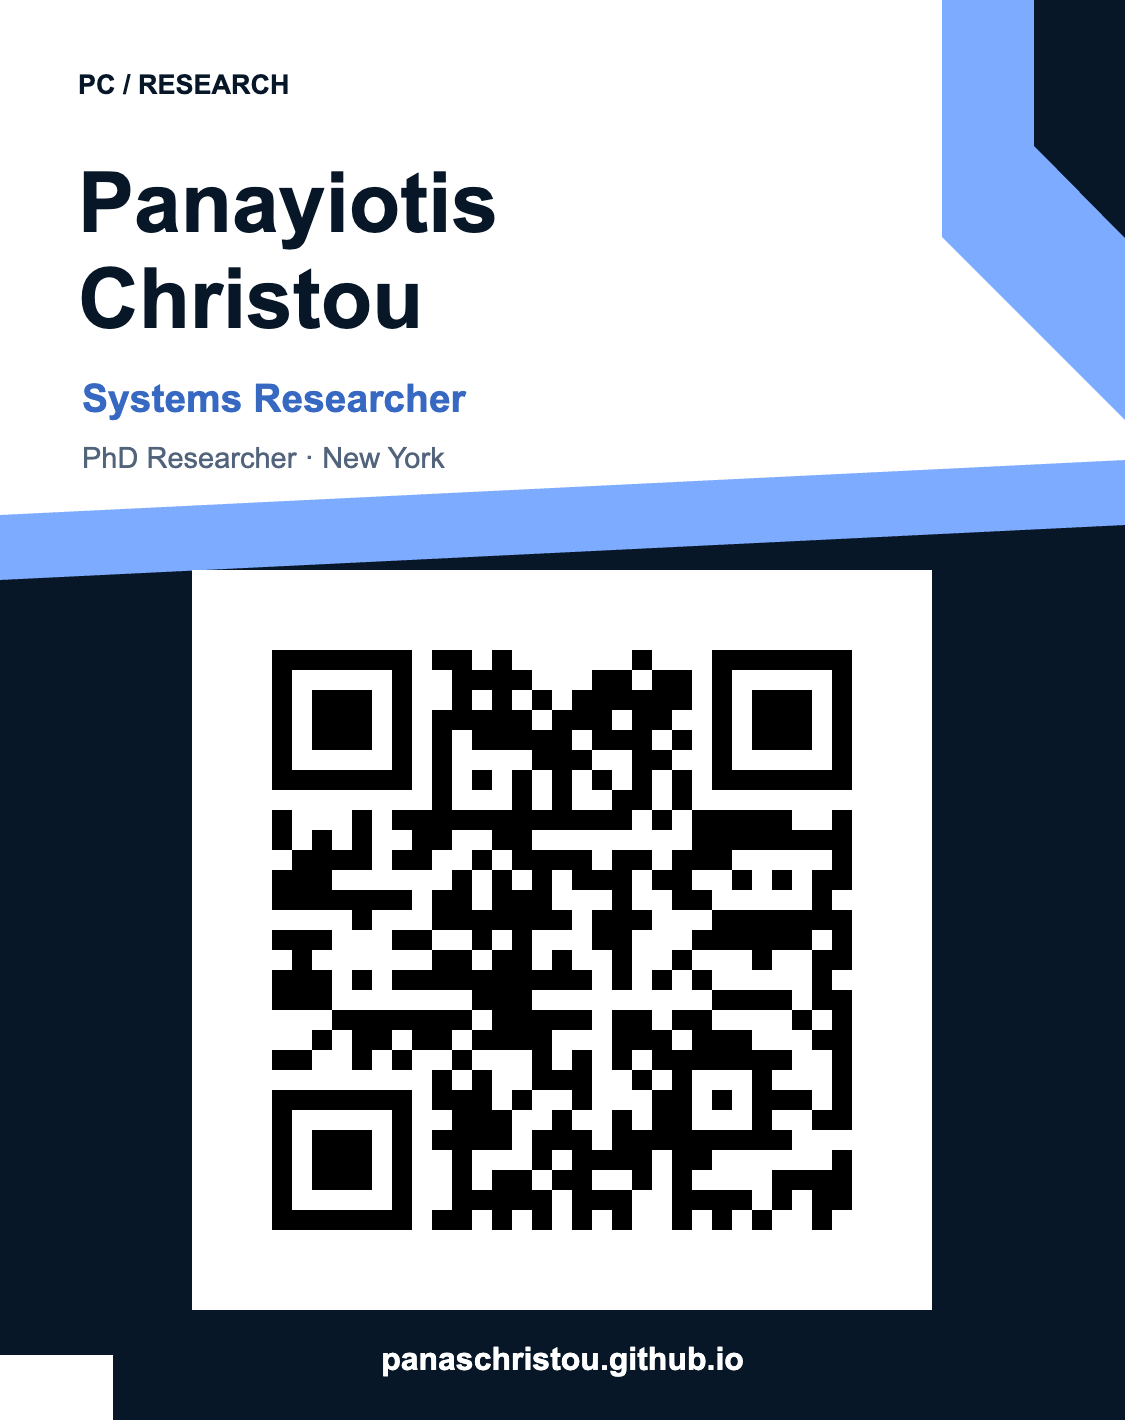
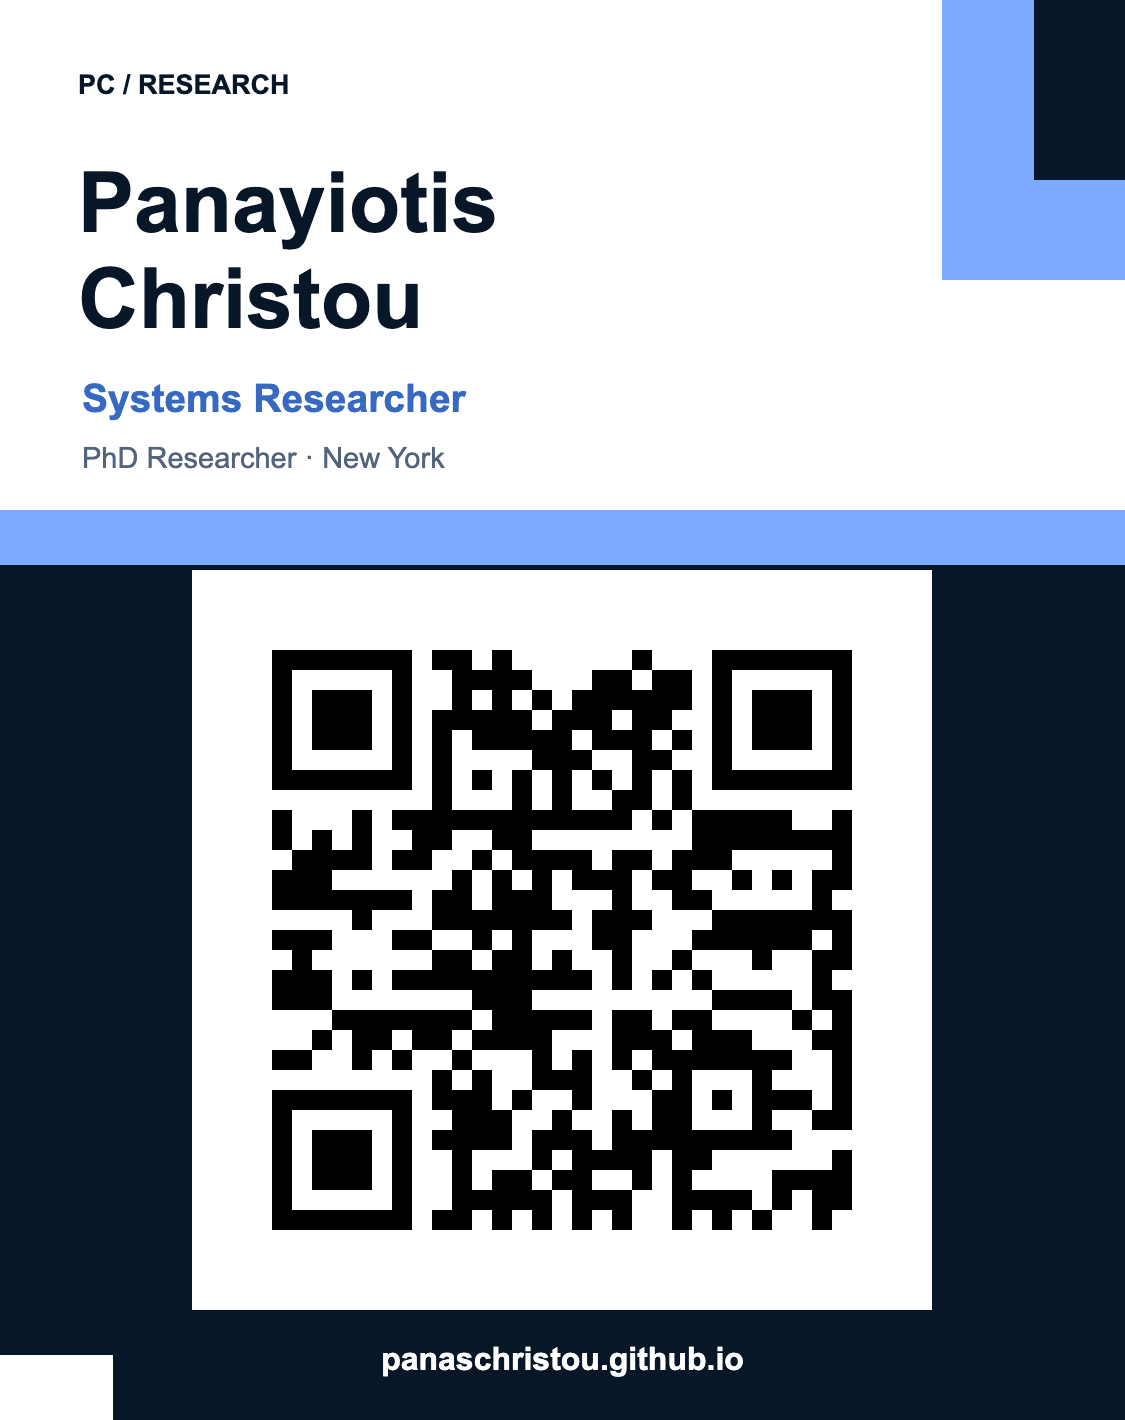
Make blue-and-white card accents rectangular

Changed region(s): [[0.0, 0.1239, 1.0, 0.4338], [0.9022, 0.093, 0.9333, 0.1239]]

diff --git a/card/index.html b/card/index.html
@@ -1,1 +1,1 @@
-<!doctype html><html lang="en"><head><meta charset="utf-8"><meta name="viewport" content="width=device-width,initial-scale=1"><meta name="robots" content="noindex"><meta name="theme-color" content="#071727"><title>Panayiotis Christou · Card designs</title><style>*{box-sizing:border-box}html{scroll-behavior:smooth}body{margin:0;background:#06131f;color:#f6f8ff;font:16px/1.6 -apple-system,BlinkMacSystemFont,Arial,sans-serif}main{max-width:1100px;margin:auto;padding:30px 24px 50px}a{color:#9dcbff}header{display:flex;justify-content:space-between;gap:20px;font-size:12px;letter-spacing:.04em;padding-bottom:20px;border-bottom:1px solid #294055}h1{font-size:42px;line-height:1.1;letter-spacing:-.045em;margin:35px 0 16px}p{color:#afc1d8}nav{display:flex;flex-wrap:wrap;gap:10px;margin:25px 0 35px}nav a{border:1px solid #3d5672;padding:9px 16px;text-decoration:none;border-radius:5px;font-size:13px}.grid{display:grid;grid-template-columns:1fr 1fr;gap:45px 30px}.option{min-width:0;scroll-margin-top:20px}.option-head{margin-bottom:15px}.option-head span{font-size:11px;letter-spacing:.08em;color:#7dabff}.option h2{font-size:25px;margin:3px 0 0;letter-spacing:-.025em}.option img{width:100%;height:auto;display:block;border-radius:12px;border:1px solid #294055}.option p{font-size:14px;margin:15px 0}.actions{display:flex;align-items:center;justify-content:space-between;gap:15px;font-size:13px}.button{background:#7dabff;color:#06131f;padding:11px 16px;border-radius:5px;font-weight:700;text-decoration:none}details{margin-top:40px;border-top:1px solid #294055;padding-top:22px}summary{cursor:pointer;font-weight:600}details p,details li{font-size:14px;max-width:750px}li{margin:12px 0;color:#afc1d8}.note{font-size:12px;max-width:800px;margin-top:30px}a:focus-visible,summary:focus-visible{outline:3px solid #7dabff;outline-offset:4px}@media(max-width:620px){main{padding:22px 20px 40px}h1{font-size:34px}.grid{grid-template-columns:1fr;gap:35px}.actions{font-size:12px}header{font-size:10px}nav{gap:7px}nav a{padding:8px 12px;font-size:12px}}@media(prefers-reduced-motion:reduce){html{scroll-behavior:auto}}</style></head><body><main><header><span>PC / DIGITAL CARDS</span><a href="/">Back to my research ↗</a></header><h1>Choose your card.</h1><p>Four designs in blue, navy, and white. Every card says “PhD Researcher · New York” and links to the same website.</p><nav aria-label="Card designs"><a href="#classic">01 Classic Navy</a><a href="#orbit">02 Orbit</a><a href="#blueprint">03 Blueprint</a><a href="#fold">04 Blue & White</a></nav><div class="grid"><article class="option" id="classic"><div class="option-head"><span>01 / Current design</span><h2>Classic Navy</h2></div><a href="classic.png?v=2" aria-label="View Classic Navy full size"><img src="classic.png?v=2" alt="Classic Navy digital card for Panayiotis Christou, Systems Researcher. PhD Researcher, New York. QR code to panaschristou.github.io." width="1125" height="1420"></a><p>The original navy card, with the updated PhD Researcher line.</p><div class="actions"><a class="button" href="classic.png?v=2" download="Panayiotis-Christou-classic.png">Download card ↓</a><a href="classic.png?v=2">View full size ↗</a></div></article><article class="option" id="orbit"><div class="option-head"><span>02 / Circles + white space</span><h2>Orbit</h2></div><a href="orbit.png?v=2" aria-label="View Orbit full size"><img src="orbit.png?v=2" alt="Orbit digital card for Panayiotis Christou, Systems Researcher. PhD Researcher, New York. QR code to panaschristou.github.io." width="1125" height="1420"></a><p>Oversized blue rings and a white lower panel.</p><div class="actions"><a class="button" href="orbit.png?v=2" download="Panayiotis-Christou-orbit.png">Download card ↓</a><a href="orbit.png?v=2">View full size ↗</a></div></article><article class="option" id="blueprint"><div class="option-head"><span>03 / Technical + geometric</span><h2>Blueprint</h2></div><a href="blueprint.png?v=2" aria-label="View Blueprint full size"><img src="blueprint.png?v=2" alt="Blueprint digital card for Panayiotis Christou, Systems Researcher. PhD Researcher, New York. QR code to panaschristou.github.io." width="1125" height="1420"></a><p>A fine grid, construction lines, and geometric markers.</p><div class="actions"><a class="button" href="blueprint.png?v=2" download="Panayiotis-Christou-blueprint.png">Download card ↓</a><a href="blueprint.png?v=2">View full size ↗</a></div></article><article class="option" id="fold"><div class="option-head"><span>04 / Clean + angular</span><h2>Blue & White</h2></div><a href="fold.png?v=2" aria-label="View Blue & White full size"><img src="fold.png?v=2" alt="Blue & White digital card for Panayiotis Christou, Systems Researcher. PhD Researcher, New York. QR code to panaschristou.github.io." width="1125" height="1420"></a><p>White typography space with a blue-and-navy diagonal split.</p><div class="actions"><a class="button" href="fold.png?v=2" download="Panayiotis-Christou-fold.png">Download card ↓</a><a href="fold.png?v=2">View full size ↗</a></div></article></div><details><summary>How to create a personal Apple Wallet pass</summary><ol><li>Save your preferred card image to Photos on your iPhone.</li><li>Open it in Photos and swipe up or tap Info.</li><li>If Add Pass to Wallet appears, tap it, review the fields and choose your preferred blue background.</li><li>Use Panayiotis Christou for the name, Systems Researcher for the role, and PhD Researcher · New York for the additional detail, then save.</li></ol><p>Photo detection requires compatible Apple Intelligence hardware and settings. Apple also provides Wallet → + → Create a Pass → Create Pass Manually for a standard pass.</p><p><a href="https://support.apple.com/en-gb/127821">Apple’s instructions ↗</a> · <a href="website-qr.png" download>Download QR code only ↓</a></p></details><p class="note">These are downloadable card images. Apple Wallet creates your personal pass on your iPhone and controls its layout; custom image patterns may not carry over to the native pass.</p></main></body></html>
+<!doctype html><html lang="en"><head><meta charset="utf-8"><meta name="viewport" content="width=device-width,initial-scale=1"><meta name="robots" content="noindex"><meta name="theme-color" content="#071727"><title>Panayiotis Christou · Card designs</title><style>*{box-sizing:border-box}html{scroll-behavior:smooth}body{margin:0;background:#06131f;color:#f6f8ff;font:16px/1.6 -apple-system,BlinkMacSystemFont,Arial,sans-serif}main{max-width:1100px;margin:auto;padding:30px 24px 50px}a{color:#9dcbff}header{display:flex;justify-content:space-between;gap:20px;font-size:12px;letter-spacing:.04em;padding-bottom:20px;border-bottom:1px solid #294055}h1{font-size:42px;line-height:1.1;letter-spacing:-.045em;margin:35px 0 16px}p{color:#afc1d8}nav{display:flex;flex-wrap:wrap;gap:10px;margin:25px 0 35px}nav a{border:1px solid #3d5672;padding:9px 16px;text-decoration:none;border-radius:5px;font-size:13px}.grid{display:grid;grid-template-columns:1fr 1fr;gap:45px 30px}.option{min-width:0;scroll-margin-top:20px}.option-head{margin-bottom:15px}.option-head span{font-size:11px;letter-spacing:.08em;color:#7dabff}.option h2{font-size:25px;margin:3px 0 0;letter-spacing:-.025em}.option img{width:100%;height:auto;display:block;border-radius:12px;border:1px solid #294055}.option p{font-size:14px;margin:15px 0}.actions{display:flex;align-items:center;justify-content:space-between;gap:15px;font-size:13px}.button{background:#7dabff;color:#06131f;padding:11px 16px;border-radius:5px;font-weight:700;text-decoration:none}details{margin-top:40px;border-top:1px solid #294055;padding-top:22px}summary{cursor:pointer;font-weight:600}details p,details li{font-size:14px;max-width:750px}li{margin:12px 0;color:#afc1d8}.note{font-size:12px;max-width:800px;margin-top:30px}a:focus-visible,summary:focus-visible{outline:3px solid #7dabff;outline-offset:4px}@media(max-width:620px){main{padding:22px 20px 40px}h1{font-size:34px}.grid{grid-template-columns:1fr;gap:35px}.actions{font-size:12px}header{font-size:10px}nav{gap:7px}nav a{padding:8px 12px;font-size:12px}}@media(prefers-reduced-motion:reduce){html{scroll-behavior:auto}}</style></head><body><main><header><span>PC / DIGITAL CARDS</span><a href="/">Back to my research ↗</a></header><h1>Choose your card.</h1><p>Four designs in blue, navy, and white. Every card says “PhD Researcher · New York” and links to the same website.</p><nav aria-label="Card designs"><a href="#classic">01 Classic Navy</a><a href="#orbit">02 Orbit</a><a href="#blueprint">03 Blueprint</a><a href="#fold">04 Blue & White</a></nav><div class="grid"><article class="option" id="classic"><div class="option-head"><span>01 / Current design</span><h2>Classic Navy</h2></div><a href="classic.png?v=3" aria-label="View Classic Navy full size"><img src="classic.png?v=3" alt="Classic Navy digital card for Panayiotis Christou, Systems Researcher. PhD Researcher, New York. QR code to panaschristou.github.io." width="1125" height="1420"></a><p>The original navy card, with the updated PhD Researcher line.</p><div class="actions"><a class="button" href="classic.png?v=3" download="Panayiotis-Christou-classic.png">Download card ↓</a><a href="classic.png?v=3">View full size ↗</a></div></article><article class="option" id="orbit"><div class="option-head"><span>02 / Circles + white space</span><h2>Orbit</h2></div><a href="orbit.png?v=3" aria-label="View Orbit full size"><img src="orbit.png?v=3" alt="Orbit digital card for Panayiotis Christou, Systems Researcher. PhD Researcher, New York. QR code to panaschristou.github.io." width="1125" height="1420"></a><p>Oversized blue rings and a white lower panel.</p><div class="actions"><a class="button" href="orbit.png?v=3" download="Panayiotis-Christou-orbit.png">Download card ↓</a><a href="orbit.png?v=3">View full size ↗</a></div></article><article class="option" id="blueprint"><div class="option-head"><span>03 / Technical + geometric</span><h2>Blueprint</h2></div><a href="blueprint.png?v=3" aria-label="View Blueprint full size"><img src="blueprint.png?v=3" alt="Blueprint digital card for Panayiotis Christou, Systems Researcher. PhD Researcher, New York. QR code to panaschristou.github.io." width="1125" height="1420"></a><p>A fine grid, construction lines, and geometric markers.</p><div class="actions"><a class="button" href="blueprint.png?v=3" download="Panayiotis-Christou-blueprint.png">Download card ↓</a><a href="blueprint.png?v=3">View full size ↗</a></div></article><article class="option" id="fold"><div class="option-head"><span>04 / Clean + rectangular</span><h2>Blue & White</h2></div><a href="fold.png?v=3" aria-label="View Blue & White full size"><img src="fold.png?v=3" alt="Blue & White digital card for Panayiotis Christou, Systems Researcher. PhD Researcher, New York. QR code to panaschristou.github.io." width="1125" height="1420"></a><p>White typography space with straight blue bands and rectangular accents.</p><div class="actions"><a class="button" href="fold.png?v=3" download="Panayiotis-Christou-fold.png">Download card ↓</a><a href="fold.png?v=3">View full size ↗</a></div></article></div><details><summary>How to create a personal Apple Wallet pass</summary><ol><li>Save your preferred card image to Photos on your iPhone.</li><li>Open it in Photos and swipe up or tap Info.</li><li>If Add Pass to Wallet appears, tap it, review the fields and choose your preferred blue background.</li><li>Use Panayiotis Christou for the name, Systems Researcher for the role, and PhD Researcher · New York for the additional detail, then save.</li></ol><p>Photo detection requires compatible Apple Intelligence hardware and settings. Apple also provides Wallet → + → Create a Pass → Create Pass Manually for a standard pass.</p><p><a href="https://support.apple.com/en-gb/127821">Apple’s instructions ↗</a> · <a href="website-qr.png" download>Download QR code only ↓</a></p></details><p class="note">These are downloadable card images. Apple Wallet creates your personal pass on your iPhone and controls its layout; custom image patterns may not carry over to the native pass.</p></main></body></html>
